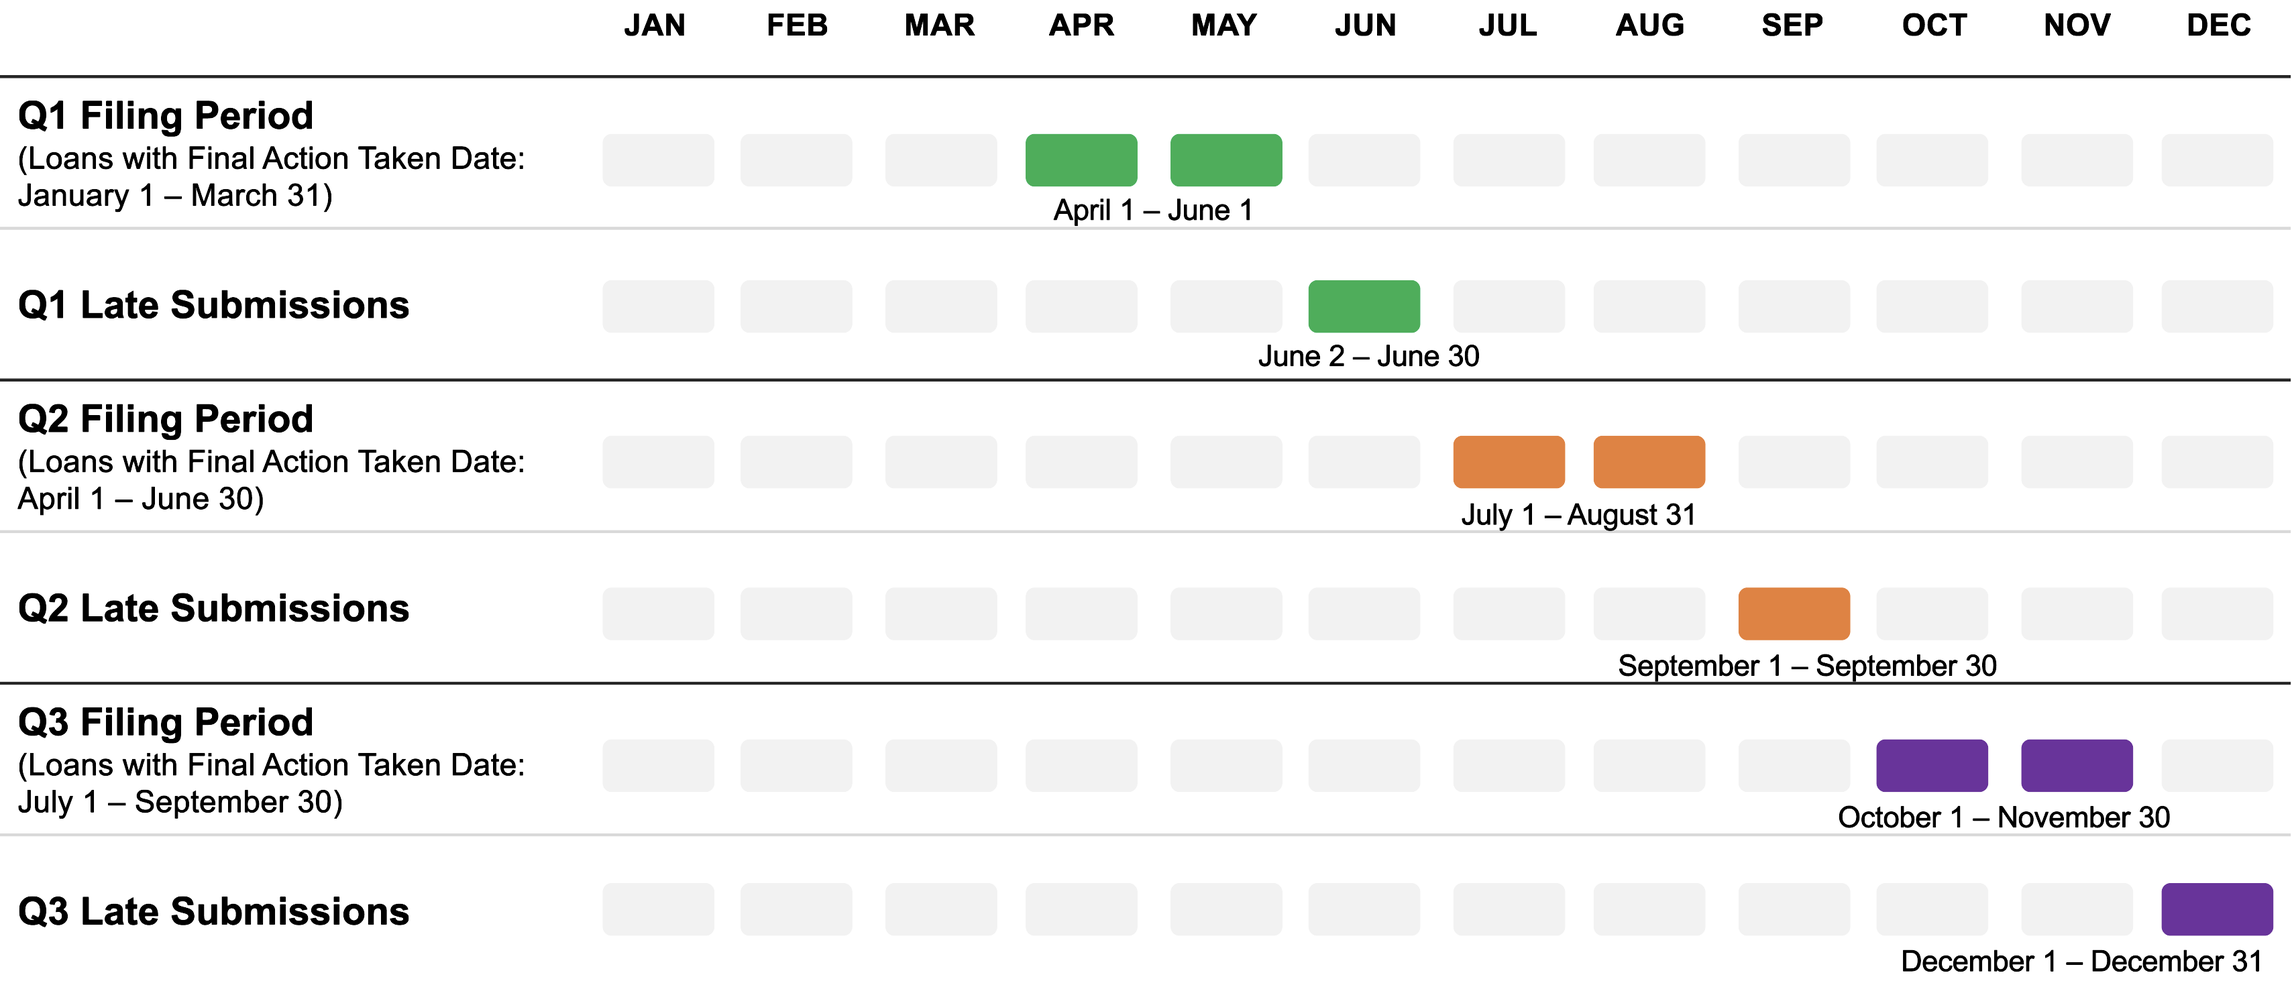
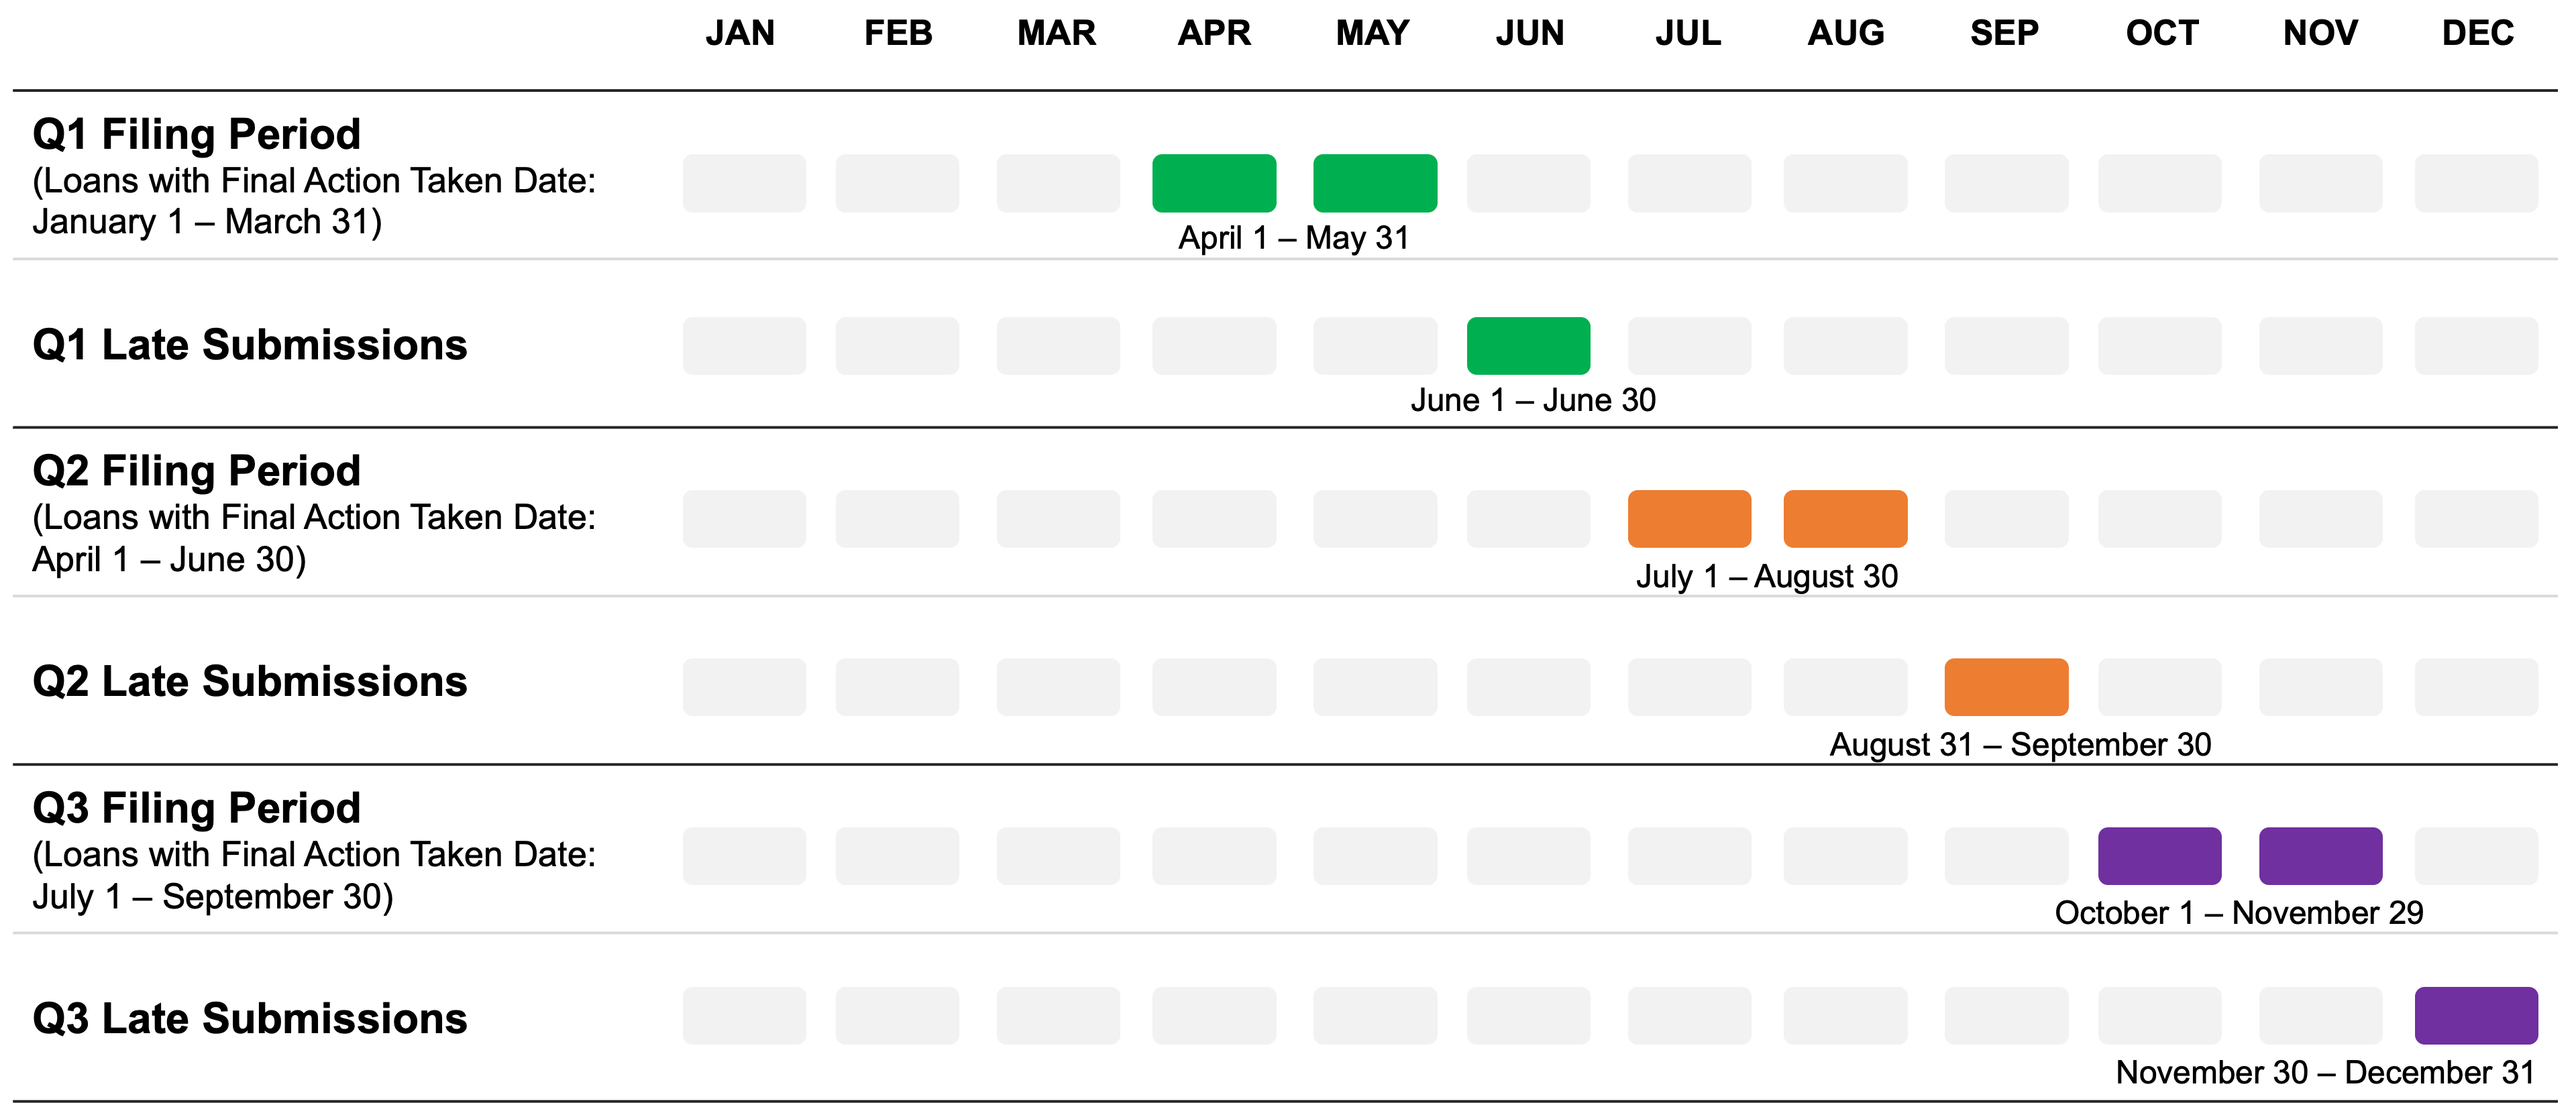
feat(docs): update quarterly filing deadlines

diff --git a/documentation/faq/data-collection-timelines.md b/documentation/faq/data-collection-timelines.md
@@ -52,14 +52,14 @@ As stated in <a target="_blank" rel="noopener noreferrer" href="https://www.cons
 
 Beginning January 1, 2020, the 2015 HMDA Final Rule requires quarterly reporting for financial institutions that reported a combined total of at least 60,000 applications and covered loans, excluding purchased covered loans, for the preceding calendar year. Thus, in addition to their annual data submission, these larger-volume reporters will submit HMDA data for each of the first three quarters of the year on a quarterly basis. Further information can be found in <a target="_blank" rel="noopener noreferrer" href="https://www.consumerfinance.gov/rules-policy/regulations/1003/5/#a-1-ii">Regulation C, 12 CFR 1003.5(a)(1)(ii)</a>.
 
-If you need additional information to help get your file ready you can refer to the <a target="_blank" rel="noopener noreferrer" href="/documentation/fig/2026/supplemental-guide-for-quarterly-filers">Supplemental Guide for Quarterly Filers</a> or the [Filing Instructions Guide (FIG)](#filing-instructions-guide-fig) section.
+If you need additional information to help get your file ready you can refer to the <a target="_blank" rel="noopener noreferrer" href="/documentation/fig/2027/supplemental-guide-for-quarterly-filers">Supplemental Guide for Quarterly Filers</a> or the [Filing Instructions Guide (FIG)](#filing-instructions-guide-fig) section.
 
-See below for information on HMDA 2026 Quarterly Filing period dates:
+See below for information on HMDA 2027 Quarterly Filing period dates:
 
 ![Quarterly Filing calendar](/img/filing/quarterly_filing.png)
 
 Quarterly HMDA data submissions are separated into three quarters.   
 
-- Quarter 1 on time filing period: April 1 - June 1 (Loans with Final Action Taken Date: January 1 – March 31)
-- Quarter 2 on time filing period: July 1 - August 31 (Loans with Final Action Taken Date: April 1 – June 30)
-- Quarter 3 on time filing period: October 1 - November 30 (Loans with Final Action Taken Date: July 1 – September 30)
+- Quarter 1 on time filing period: April 1 - May 31 (Loans with Final Action Taken Date: January 1 – March 31)
+- Quarter 2 on time filing period: July 1 - August 30 (Loans with Final Action Taken Date: April 1 – June 30)
+- Quarter 3 on time filing period: October 1 - November 29 (Loans with Final Action Taken Date: July 1 – September 30)
